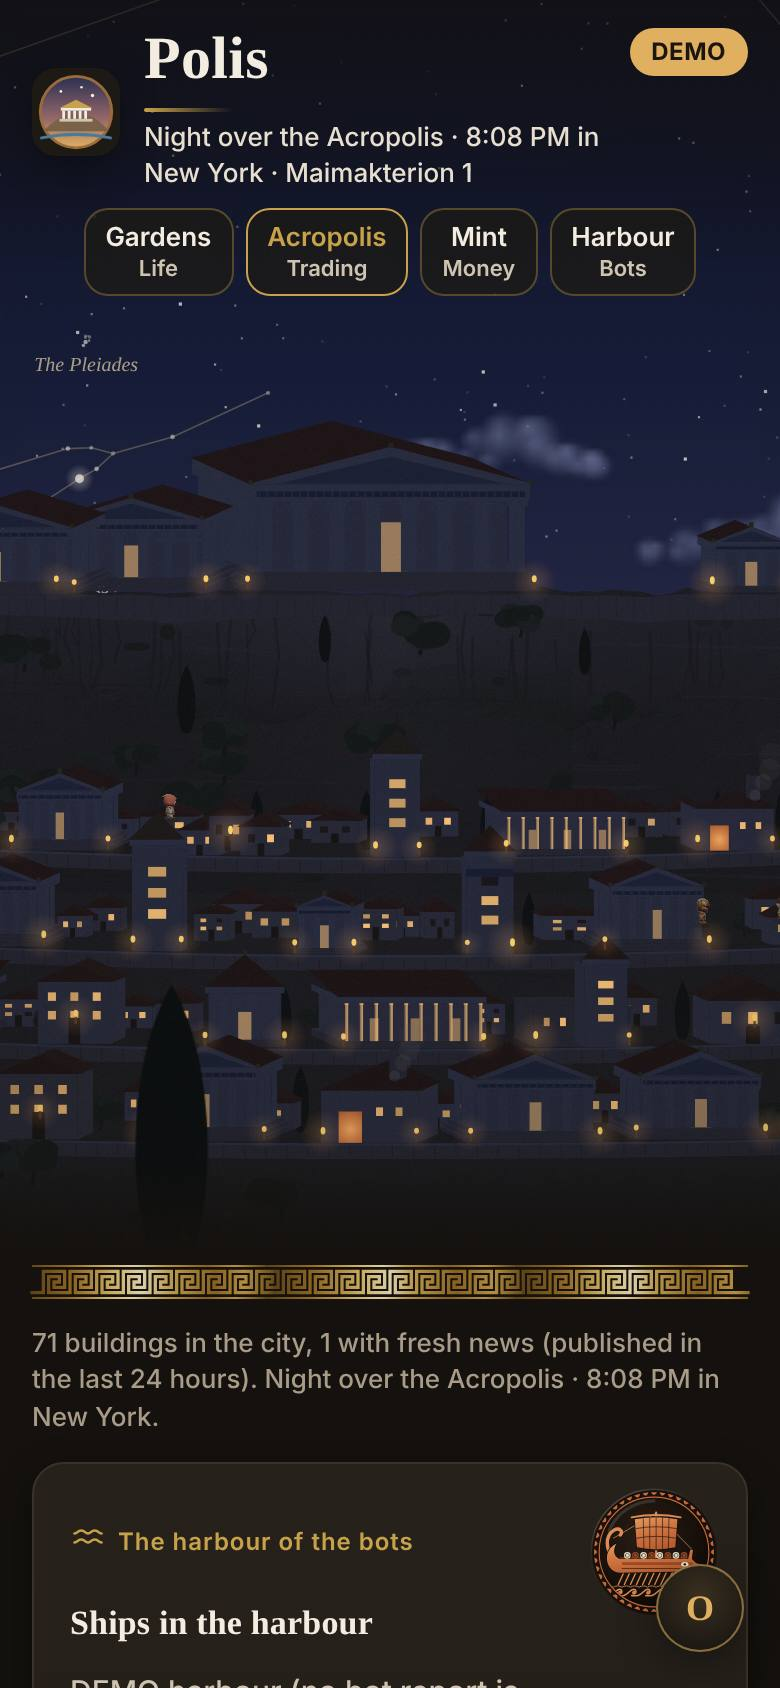
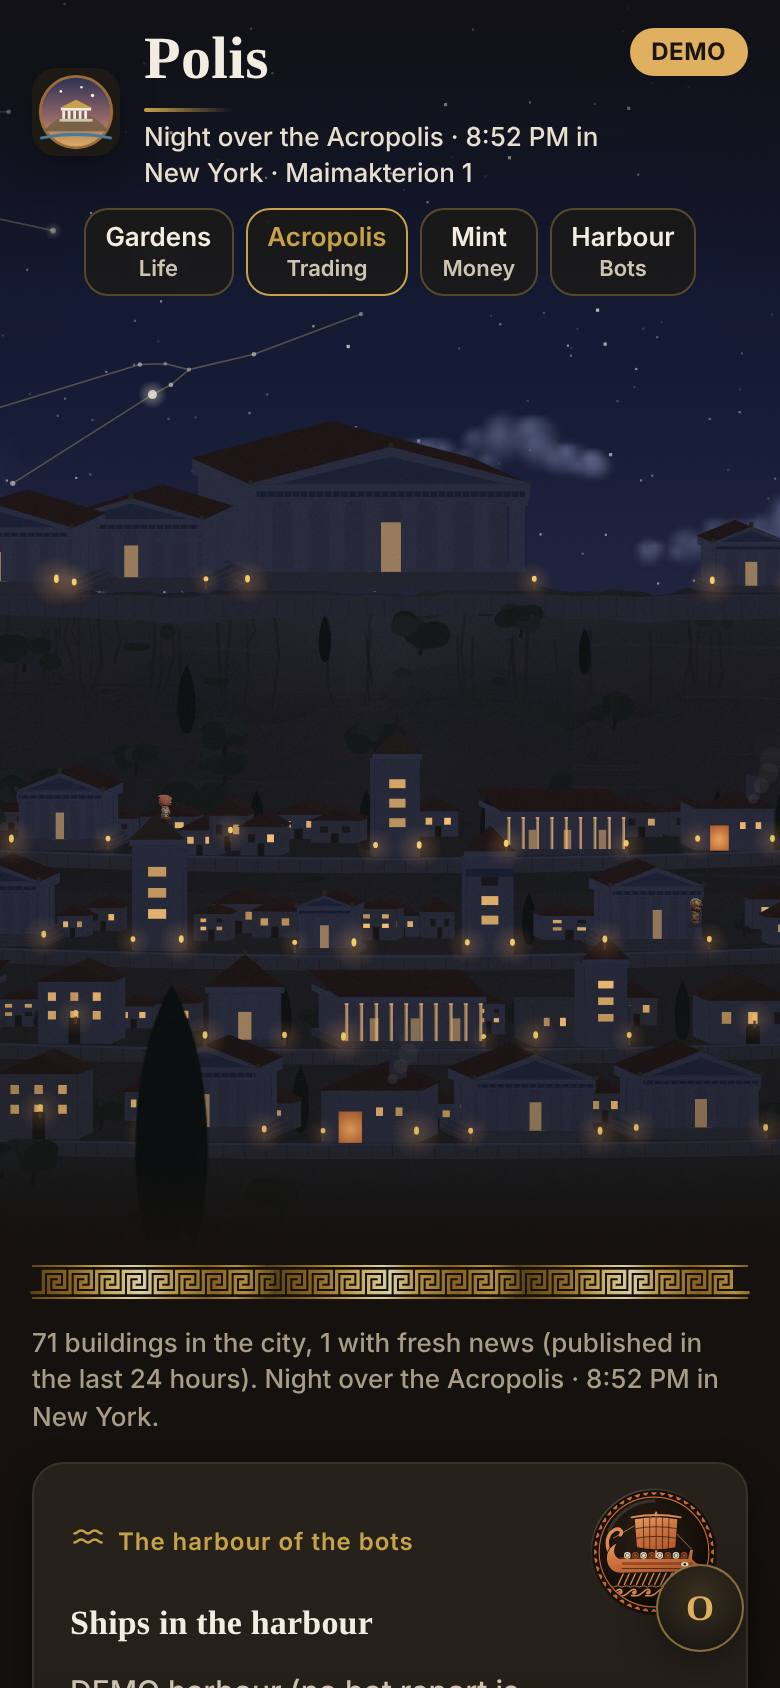
Polis citizens walk the streets under the Parthenon (where the page opens)
Claude-Session: https://claude.ai/code/session_0157vZy9yroQd2RyVxNCbDwo

diff --git a/tools/web_public/olympus/polis-skyline.js b/tools/web_public/olympus/polis-skyline.js
@@ -899,7 +899,7 @@
     // two-stride walk, mirrored by direction; at dusk and night the photos are darkened to the light. Still (no walking) with reduced motion / LITE.
     function makeCitizens(A, list) {
       if (!A || !A.canvas || !list.length || (A.frames || 0) < 5) return null;
-      var rows = [[352, 640, 1640], [414, 700, 1600], [476, 740, 1560]], r = rng(hash('citizens:' + list.length)), walkers = [];
+      var rows = [[352, 880, 1430], [414, 860, 1450], [476, 870, 1440]], r = rng(hash('citizens:' + list.length)), walkers = [];
       for (var i = 0; i < Math.max(list.length, 15); i++) { var row = rows[i % rows.length], span = row[2] - row[1], li = i % list.length; walkers.push({ id: list[li].id || String(li), i: li, x0: row[1], span: span, y: row[0] + 3 + (i % 2) * 3, ph: r(), v: 9 + r() * 6, dir: r() < 0.5 ? -1 : 1, x: row[1] + r() * span }); }
       return { A: A, walkers: walkers, tinted: null };
     }
